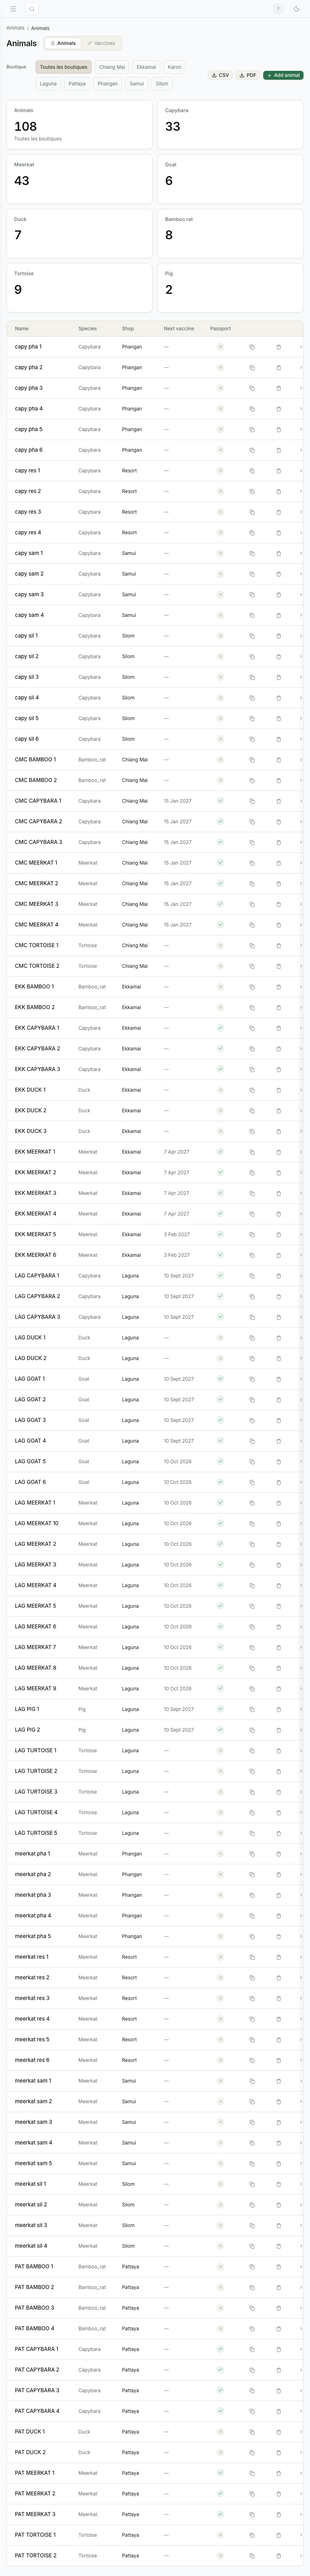
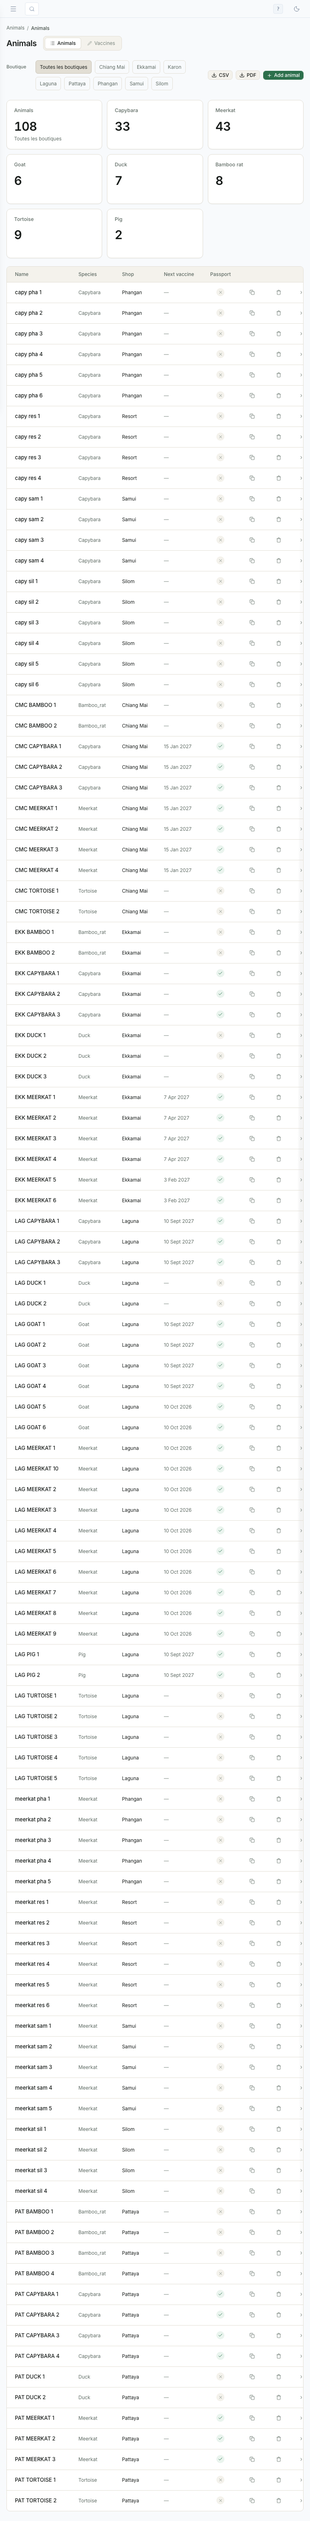
Animals: pack the species cards on tablet/desktop
Eight species counts at 2-up tablet left four empty rows before the animal list. Use 3 columns at 768-1023 and 4 from 1024 (phones stay 2-up). Captures refreshed in wave4/after.

diff --git a/src/app/(dashboard)/animals/animals.css b/src/app/(dashboard)/animals/animals.css
@@ -106,6 +106,24 @@
   }
 }
 
+/* Species counts are short labels: pack them rather than leaving a lonely
+   two-card row on tablets/desktop. */
+@media (min-width: 768px) and (max-width: 1023px) {
+  .animals .ui-kpi-grid {
+    grid-template-columns: repeat(3, minmax(0, 1fr));
+  }
+
+  .animals .ui-kpi-grid > :last-child:nth-child(odd) {
+    grid-column: auto;
+  }
+}
+
+@media (min-width: 1024px) {
+  .animals .ui-kpi-grid {
+    grid-template-columns: repeat(4, minmax(0, 1fr));
+  }
+}
+
 @media (max-width: 479px) {
   .animals-detail-grid {
     grid-template-columns: 1fr !important;
